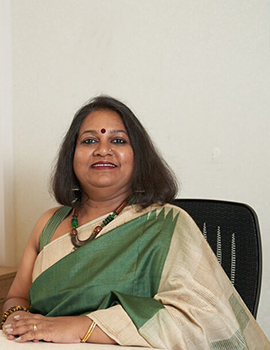
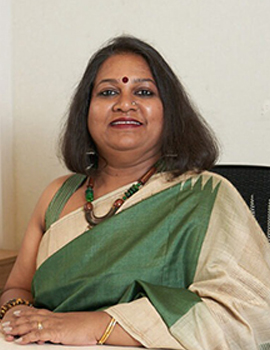
changes

diff --git a/about.html b/about.html
@@ -544,7 +544,7 @@
                             <div class="atropos-scale">
                                 <div class="atropos-rotate">
                                     <div class="atropos-inner">
-                                        <img data-atropos-offset="5" style="border-radius: 8px;" src="images/TCIS/about/story.jpeg" alt="">  
+                                        <img data-atropos-offset="5" style="border-radius: 8px;" src="images/TCIS/about/story.png" alt="">  
                                     </div>
                                 </div>
                             </div>
@@ -746,32 +746,20 @@
                         <img class="u3" src="images/TCIS/about/3.jpeg" alt="">
                     </div>
                       <div class="swiper-slide">
-                      <img class="u4" src="images/TCIS/about/4.jpg" alt="">
+                      <img class="u4" src="images/TCIS/about/4.jpeg" alt="">
                       </div>
-                      <!-- <div class="swiper-slide">
+                      <div class="swiper-slide">
                         <img class="u3" src="images/TCIS/about/5.jpg" alt="">
                         </div>
                         <div class="swiper-slide">
-                            <img class="u1" src="images/TCIS/about/6.jpg" alt="">
+                            <img class="u1" src="images/TCIS/about/6.jpeg" alt="">
                         </div>
                         <div class="swiper-slide">
                         <img class="u2" src="images/TCIS/about/7.jpg" alt="">
                         </div>
                         <div class="swiper-slide">
-                            <img class="u3" src="images/TCIS/about/8.jpg" alt="">
-                        </div> -->
-                        <div class="swiper-slide">
-                            <img class="u5" src="images/TCIS/about/5.jpg" alt="">
-                            </div>
-                            <div class="swiper-slide">
-                                <img class="u6" src="images/TCIS/about/6.jpg" alt="">
-                            </div>
-                            <div class="swiper-slide">
-                            <img class="u7" src="images/TCIS/about/7.jpg" alt="">
-                            </div>
-                            <div class="swiper-slide">
-                                <img class="u8" src="images/TCIS/about/8.jpg" alt="">
-                            </div>
+                            <img class="u3" src="images/TCIS/about/8.jpeg" alt="">
+                        </div>
                       
                       </div>
                   </div>
@@ -821,7 +809,9 @@
                                             <img class="quote-icon" src="https://md-aqil.github.io/images/quote.png" alt="">
                                               
                                           <p>
-                                                  “Lines from Team..“
+                                                  “Shweta Singh is a dynamic leader with over a decade of experience in the education sector, specializing in technology-driven transformation, operational excellence, and institutional growth. As the Group Director of Technology, Operations, and Growth at TCIS Group of Schools, she plays a pivotal role in integrating innovative technologies to enhance learning experiences, streamline processes, and drive sustainable expansion.
+                                                  <br>With a keen strategic vision and a results-oriented approach, Shweta has been instrumental in modernizing educational frameworks, optimizing operational efficiencies, and fostering a culture of continuous improvement. Her expertise in leveraging digital solutions, data analytics, and process automation has empowered TCIS to stay ahead in an evolving academic landscape.
+                                                  <br>Committed to excellence in education, Shweta ensures that students, educators, and stakeholders benefit from a future-ready learning environment. Her leadership has positioned TCIS as a benchmark institution for quality education, innovation, and growth in the sector.“
                                           </p>
                                           <div class="name">Shweta Singh</div>
                                           <div class="designation">Director TCIS Group</div>
@@ -876,8 +866,8 @@
                                             <p>
                                                     “Lines from Team..“
                                             </p>
-                                            <div class="name">Kencharaya</div>
-                                            <div class="designation">General Manager, TCIS Sarjapur Road</div>
+                                            <div class="name">Kencharaya Nagarahalli</div>
+                                            <div class="designation">AGM, TCIS Sarjapur Road</div>
                                             
                                         </div>
                                     </div>
@@ -942,7 +932,7 @@
                                             <!-- <div class="bg-base-color ps-15px pe-15px fs-14 text-uppercase fw-500 d-inline-block text-white position-absolute right-0px top-0px">08 days</div> -->
                                             <!-- <div class="fs-24 fw-700 text-dark-gray"><span class="text-uppercase d-block fs-14 lh-18 fw-500 text-medium-gray">Just</span>$1099<span class="ms-5px position-relative text-red fs-19 fw-500">$1200<span class="w-100 h-1px position-absolute left-0px top-50 bg-red"></span></span></div> -->
                                             <a href="" class="mt-05px fs-14 text-white fw-500 lh-26 d-block  text-center">
-                                                TCIS chess champ do Bangalore proud		</a>
+                                                TCIS chess champion do <br> Bangalore proud		</a>
                                             <!-- <div class="d-flex align-items-center pt-15px mt-20px border-top border-color-extra-medium-gray">
                                                 <span class="fw-500 fs-14 d-inline-block text-uppercase">12 Reviews</span>
                                                 <div class="review-star-icon ms-auto">
@@ -965,7 +955,7 @@
                                             <!-- <div class="bg-base-color ps-15px pe-15px fs-14 text-uppercase fw-500 d-inline-block text-white position-absolute right-0px top-0px">05 days</div> -->
                                             <!-- <div class="fs-24 fw-700 text-dark-gray"><span class="text-uppercase d-block fs-14 lh-18 fw-500 text-medium-gray">Just</span>$1349<span class="ms-5px position-relative text-red fs-19 fw-500">$1700<span class="w-100 h-1px position-absolute left-0px top-50 bg-red"></span></span></div> -->
                                             <a href="" class="mt-05px fs-14 text-white fw-500 lh-26 d-block  text-center">
-                                                TCIS featured in Outlook Business Magazine		</a>
+                                                TCIS featured in Outlook <br> Business Magazine		</a>
                                             <!-- <div class="d-flex align-items-center pt-15px mt-20px border-top border-color-extra-medium-gray">
                                                 <span class="fw-500 fs-14 d-inline-block text-uppercase">10 Reviews</span>
                                                 <div class="review-star-icon ms-auto">
@@ -988,7 +978,7 @@
                                             <!-- <div class="bg-base-color ps-15px pe-15px fs-14 text-uppercase fw-500 d-inline-block text-white position-absolute right-0px top-0px">10 days</div>
                                             <div class="fs-24 fw-700 text-dark-gray"><span class="text-uppercase d-block fs-14 lh-18 fw-500 text-medium-gray">Just</span>$1699<span class="ms-5px position-relative text-red fs-19 fw-500">$1800<span class="w-100 h-1px position-absolute left-0px top-50 bg-red"></span></span></div> -->
                                             <a href="" class="mt-05px fs-14 text-white fw-500 lh-26 d-block  text-center">
-                                                TCIS student Athif featured in The Hindu News Paper		</a>
+                                                TCIS student Athif featured in<br> The Hindu News Paper		</a>
                                             <!-- <div class="d-flex align-items-center pt-15px mt-20px border-top border-color-extra-medium-gray">
                                                 <span class="fw-500 fs-14 d-inline-block text-uppercase">16 Reviews</span>
                                                 <div class="review-star-icon ms-auto">
@@ -1011,7 +1001,7 @@
                                             <!-- <div class="bg-base-color ps-15px pe-15px fs-14 text-uppercase fw-500 d-inline-block text-white position-absolute right-0px top-0px">10 days</div>
                                             <div class="fs-24 fw-700 text-dark-gray"><span class="text-uppercase d-block fs-14 lh-18 fw-500 text-medium-gray">Just</span>$1699<span class="ms-5px position-relative text-red fs-19 fw-500">$1800<span class="w-100 h-1px position-absolute left-0px top-50 bg-red"></span></span></div> -->
                                             <a href="" class="mt-05px fs-14 text-white fw-500 lh-26 d-block  text-center">
-                                                TCIS student won Gold in National Skating Championship		</a>
+                                                TCIS student won Gold in <br>National Skating Championship		</a>
                                             <!-- <div class="d-flex align-items-center pt-15px mt-20px border-top border-color-extra-medium-gray">
                                                 <span class="fw-500 fs-14 d-inline-block text-uppercase">16 Reviews</span>
                                                 <div class="review-star-icon ms-auto">

diff --git a/index.html b/index.html
@@ -232,7 +232,7 @@
                                                 <!-- <div class="d-inline-block align-middle bg-very-light-gray fw-600 text-dark-gray text-uppercase border-radius-22px ps-25px pe-25px fs-13 mb-15px">Explore the world</div> -->
                                                 <!-- <h3 class="fw-600 mb-0 alt-font ls-minus-1px lh-38">Explore TCIS</h3> -->
                                             </div>
-                                            <div style="width: 70%;max-height: 30rem!important;" data-scroll-options='{ "theme": "dark" }'
+                                            <div style="width: 70%;max-height: 26rem!important;" data-scroll-options='{ "theme": "dark" }'
                                             style="">
                                                 <div class="row align-items-start justify-content-center row-cols-3 row-cols-md-3 gutter-very-small row-cols-sm-3 instagram-follow-api position-relative"
                                                 style="height: 27rem;margin-top: 2rem;">
@@ -434,7 +434,7 @@
                                                     </div> 
                                                 </div>
                                                 <div class="row align-items-center justify-content-center mb-5 row-cols-3 row-cols-md-3 gutter-very-small row-cols-sm-3 instagram-follow-api position-relative"
-                                                style="height: 29rem;">
+                                                style="height: 14rem;">
                                                     <div class="col main-menu-item">
                                                         <div class="border-radius-0px main-menu-sub-item" style="line-height: 1.5;">
                                                             <a class="main-menu-headers menu-headers" href="admissionsDetails.html" target="_blank">Admissions</a>
@@ -831,7 +831,7 @@
         <!-- end section -->
          <!-- start section -->
         <section class="extra-big-section background-position-center-bottom background-size-contain background-no-repeat position-relative pt-0
-        section-bg-custom-color"><!-- style="background-image:url('images/demo-travel-agency-home-bg-02.png');"-->
+        section-bg-custom-color pb-0"><!-- style="background-image:url('images/demo-travel-agency-home-bg-02.png');"-->
             <div class="position-absolute left-0px bottom-minus-50px d-none d-lg-inline-block" data-bottom-top="transform: translateY(-50px)" data-top-bottom="transform: translateY(50px)">
                 <img src="images/TCIS/homeHero1.png" alt="" />
             </div>
@@ -1067,8 +1067,8 @@
         </section>
         
         <!--testimonials section-->
-        <section class="bg-very-light-gray background-position-center-bottom background-size-contain background-no-repeat pt-2 pb-6
-        section-bg-custom-color">
+        <section class="bg-very-light-gray background-position-center-bottom background-size-contain background-no-repeat pt-2
+        section-bg-custom-color pb-2">
             <div class="container"> 
                 <div class="row justify-content-center mb-3">
                     <div class="col-lg-6 text-center" data-anime='{ "el": "childs", "translateY": [30, 0], "opacity": [0,1], "duration": 600, "delay": 0, "staggervalue": 300, "easing": "easeOutQuad" }'>
@@ -1233,7 +1233,7 @@
         <!-- end testimonials section-->
 
         <!-- start section -->
-        <section id="explore" class="cover-background overflow-visible  section-bg-custom-color"><!-- style="background-image: url('https://via.placeholder.com/1920x780');"-->
+        <section id="explore" class="cover-background overflow-visible  section-bg-custom-color pt-0"><!-- style="background-image: url('https://via.placeholder.com/1920x780');"-->
             <!-- <div class="container overlap-section">
                 <div class="row row-cols-1 row-cols-xl-5 row-cols-md-5 row-cols-sm-3 bg-white border-radius-6px mx-0 ps-8 pe-8 lg-ps-3 lg-pe-3 pt-4 pb-4 sm-pt-8 sm-pb-8 xs-pt-15 xs-pb-40px align-items-center mb-7 xs-mb-50px justify-content-center" data-anime='{ "el": "childs", "translateX": [30, 0], "opacity": [0,1], "duration": 600, "delay": 0, "staggervalue": 300, "easing": "easeOutQuad" }'>
                     <div class="col text-center border-end border-color-extra-medium-gray sm-mb-40px xs-border-end-0">
@@ -1277,7 +1277,7 @@
                                 <div class="swiper-slide review-style-11">
                                     <div class="row align-items-center">
                                         <div class="col-md-2 text-center text-md-start sm-mb-15px">
-                                            <img src="images/TCIS/home/aj.jpg" alt="" style="border-radius: 50%;height: 100px;width: 100px;">
+                                            <img src="images/TCIS/home/parent1.jpeg" alt="" style="border-radius: 50%;height: 100px;width: 100px;">
                                             <div class="left-0px top-0px h-100 w-90px sm-w-100 sm-position-relative sm-mt-10px sm-border-end-0">
                                                 <div class=" align-items-center justify-content-center sm-vertical-title-inherit">
                                                     <div class="title fs-14 alt-font text-base-color fw-600 text-uppercase text-center">Smitha CP</div>
@@ -1286,8 +1286,8 @@
                                             </div>
                                         </div> 
                                         <div class="col-md-10 position-relative ps-8 sm-ps-8px text-center text-md-start">
-                                            <p class="fs-30 text-dark-gray fw-400">"Shifting my son and daughter to TCIS is one of the best decisions I have taken
-                                                <br><a href="ourStories.html" class="fs-14 text-base-color"> ..&nbsp;Read more</a>
+                                            <p class="fs-30 text-dark-gray fw-400">"Shifting my son and daughter to TCIS is one of the best decisions I have taken"
+                                                <br><a href="ourStories.html" class="fs-14 text-base-color"> ..&nbsp;Read whole story</a>
                                             </p>
                                             <p></p>
                                             <!-- <p class="fs-14 lh-28 text-dark-gray mb-20px">"They were earlier studying at New *** School, where I noticed serious lack of personalised attention. With 35-40 students in a class, it is hard to blame the teachers for that. At home also, since both my husband and I work on tight schedules, we could also not give enough attention to support our kids’ learning. With no one to hold them tight at school or at home, their academic results were average. In fact, even in co-curriculars also they remained average with no one at school to identify their talents or to push them into meaningful activities. They were literally lost in the crowd."</p> -->
@@ -1415,7 +1415,7 @@
         <!-- end section -->
         <!--testimonials section-->
         <section class="bg-very-light-gray background-position-center-bottom background-size-contain background-no-repeat pt-2 pb-6
-        section-bg-custom-color" style="background-image:url('images/demo-travel-agency-home-bg-05.png');">
+        section-bg-custom-color pt-0" style="background-image:url('images/demo-travel-agency-home-bg-05.png');">
             <div class="container"> 
                 <div class="row justify-content-center mb-3">
                     <div class="col-lg-6 text-center" data-anime='{ "el": "childs", "translateY": [30, 0], "opacity": [0,1], "duration": 600, "delay": 0, "staggervalue": 300, "easing": "easeOutQuad" }'>
@@ -1439,7 +1439,7 @@
                                         <div class="bg-white p-10px position-relative" style="background-color: #1f2257!important;">
                                             <!-- <div class="bg-base-color ps-15px pe-15px fs-14 text-uppercase fw-500 d-inline-block text-white position-absolute right-0px top-0px">10 days</div> -->
                                             <!-- <div class="fs-24 fw-700 text-dark-gray"><span class="text-uppercase d-block fs-14 lh-18 fw-500 text-medium-gray">Just</span>$1299<span class="ms-5px position-relative text-red fs-19 fw-500">$1500<span class="w-100 h-1px position-absolute left-0px top-50 bg-red"></span></span></div> -->
-                                            <a href="" class="mt-05px fs-18 text-white fw-500 lh-26 d-block text-center">Padma Bushan Pankaj Advani International Snooker Player</a>
+                                            <a href="" class="mt-05px fs-18 text-white fw-500 lh-26 d-block text-center">Padma Bushan Pankaj Advani <br>World Snooker Champion</a>
                                             <!-- <div class="d-flex align-items-center pt-15px mt-20px border-top border-color-extra-medium-gray">
                                                 <span class="fw-500 fs-14 d-inline-block text-uppercase">18 Reviews</span>
                                                 <div class="review-star-icon ms-auto">

diff --git a/ourStories.html b/ourStories.html
@@ -532,9 +532,9 @@
             <!-- <div class="opacity-light bg-bay-of-many-blue"></div> -->
             <div class="container">
                 <div class="row align-items-center justify-content-center extra-small-screen">
-                    <div class="col-lg-6 col-md-8 position-relative text-center page-title-extra-large" data-anime='{ "el": "childs", "translateY": [30, 0], "opacity": [0,1], "duration": 600, "delay": 0, "staggervalue": 300, "easing": "easeOutQuad" }'>
+                    <div class="col-lg-8 col-md-8 position-relative text-center page-title-extra-large" data-anime='{ "el": "childs", "translateY": [30, 0], "opacity": [0,1], "duration": 600, "delay": 0, "staggervalue": 300, "easing": "easeOutQuad" }'>
                         <!-- <h2 class="text-uppercase mb-10px alt-font text-white fw-500 bg-dark-gray border-radius-4px">TCIS</h2> -->
-                        <h1 class="mb-0 text-white alt-font ls-minus-2px text-uppercase fw-600 text-shadow-double-large">Our Stories</h1>
+                        <h1 class="mb-0 text-white alt-font ls-minus-2px text-uppercase fw-600 text-shadow-double-large">Parent Stories</h1>
                     </div>
                 </div>
             </div>
@@ -562,9 +562,10 @@
                             <div class="col-12 mb-6">
                                 <div class="d-block d-md-flex w-100 box-shadow-extra-large align-items-center border-radius-4px p-7 sm-p-35px">
                                     <div class="w-140px text-center me-50px sm-mx-auto">
-                                        <img src="https://via.placeholder.com/125x125" class="rounded-circle w-120px" alt="">
+                                        <img src="images/TCIS/home/parent1.jpeg" class="rounded-circle w-100px h-100px" alt="">
                                         <a href="demo-travel-agency-blog.html" class="text-dark-gray fw-500 mt-20px d-inline-block lh-20">Smitha CP</a>
-                                        <span class="fs-15 lh-20 d-block sm-mb-10px">Co-founder</span>
+                                        <span class="fs-15 lh-20 d-block sm-mb-10px">Sr. Architect,</span>
+                                        <span class="fs-15 lh-20 d-block sm-mb-10px">Panickers Design Lab Pvt Ltd</span>
                                     </div>
                                     <div class="w-75 sm-w-100 text-center text-md-start last-paragraph-no-margin">
                                         <p class="mb-5px">Shifting my son and daughter to TCIS is one of the best decisions I've taken.</p>

diff --git a/demos/travel-agency/travel-agency.css b/demos/travel-agency/travel-agency.css
@@ -142,7 +142,7 @@
       display: block;
     height: 2px;
     width: 90px;
-    background: #fff;
+    background: var(--base-color);
     margin-bottom: 10px;
 }
 
@@ -874,7 +874,8 @@ footer .elements-social ul li {
     color: var(--base-color);
   } */
 .menu-item-name {
-  padding: 15px 0 15px;
+  /* padding: 15px 0 15px; */
+  padding: 8px 0 15px;
   list-style: none;
 }
 
